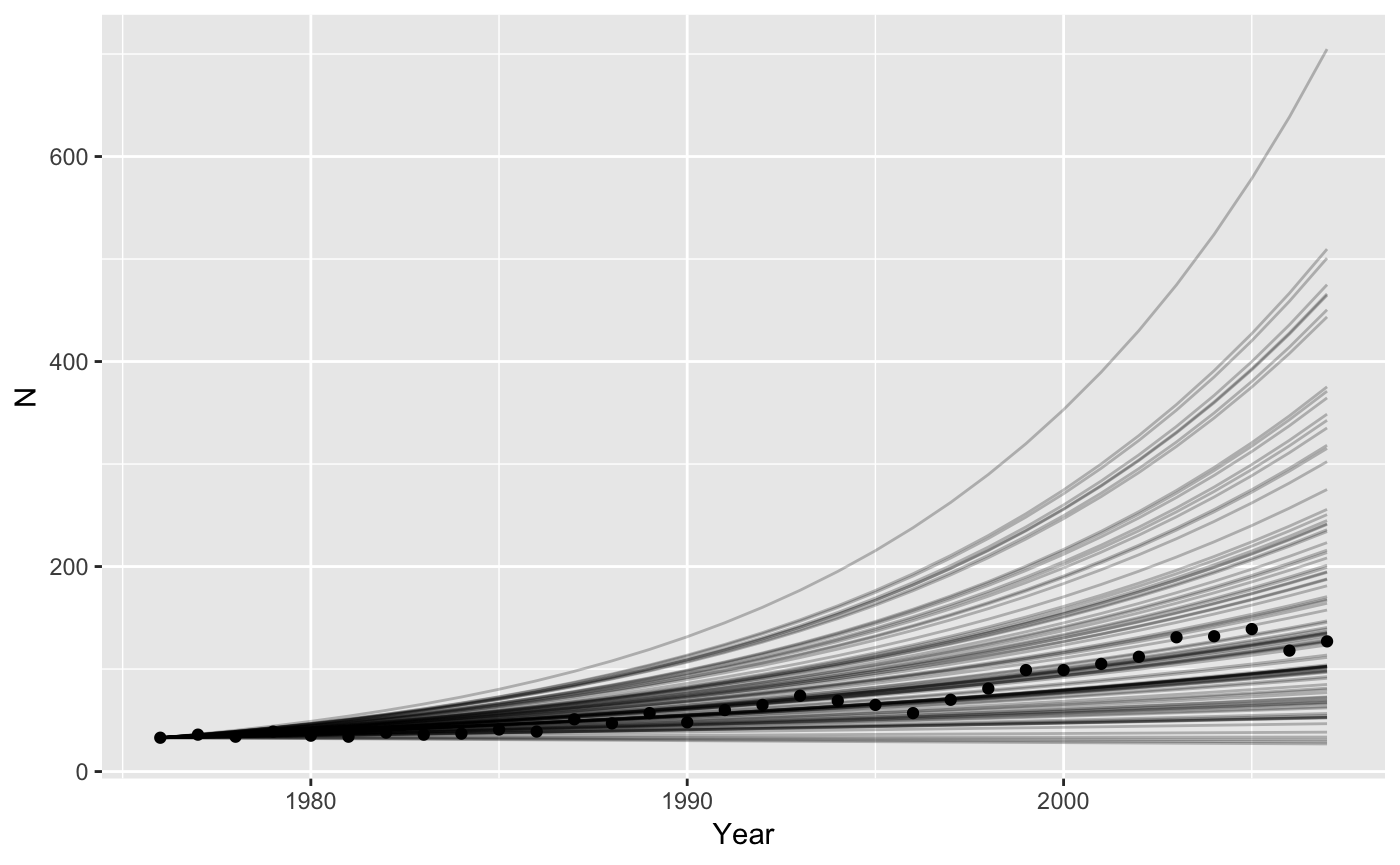
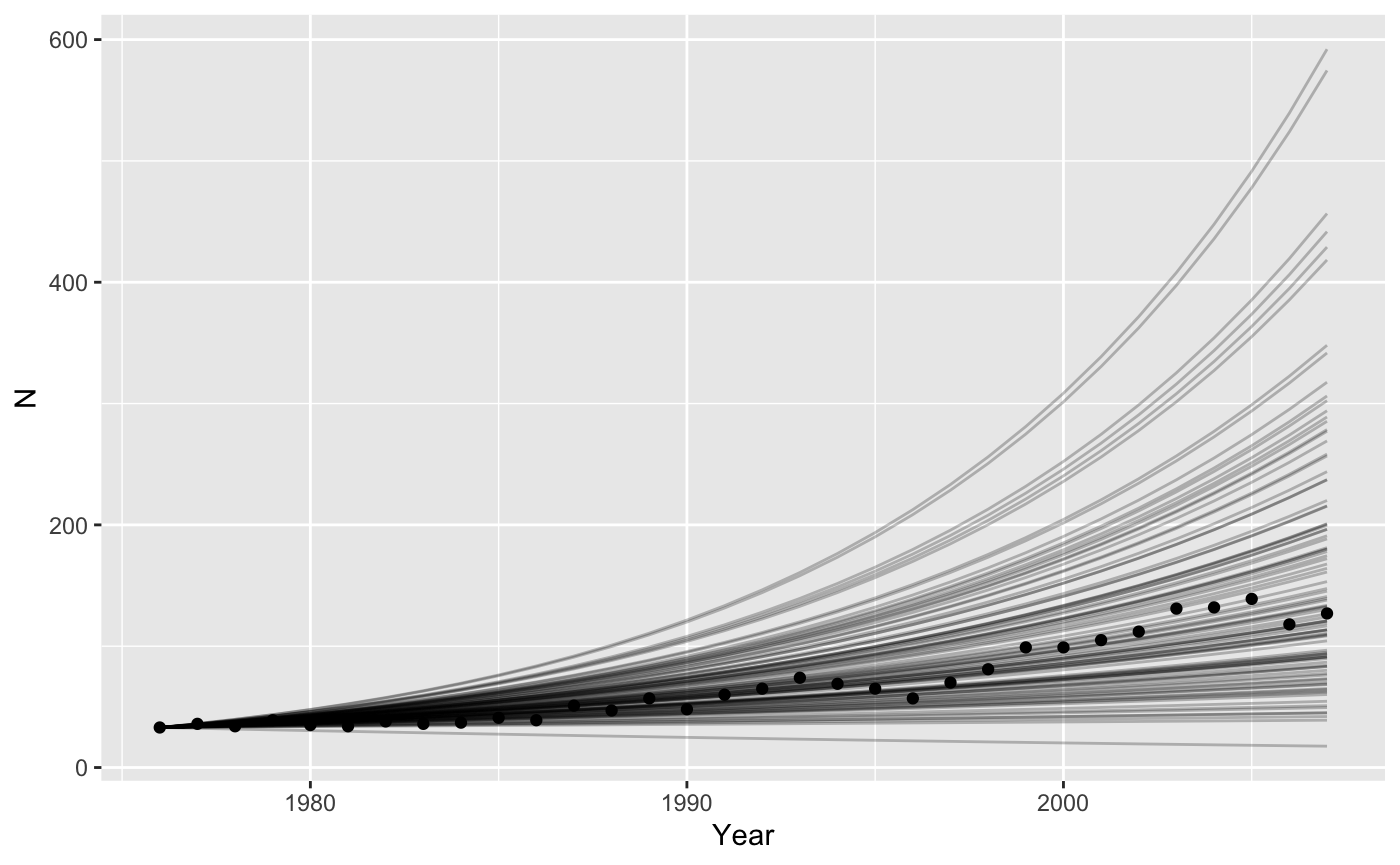
expand matrix example and update site

diff --git a/docs/articles/examples.html b/docs/articles/examples.html
@@ -100,12 +100,7 @@
 <a class="sourceLine" id="cb1-10" data-line-number="10"><span class="co">#&gt;     intersect, setdiff, setequal, union</span></a>
 <a class="sourceLine" id="cb1-11" data-line-number="11"><span class="kw"><a href="https://www.rdocumentation.org/packages/base/topics/library">library</a></span>(tidyr)</a>
 <a class="sourceLine" id="cb1-12" data-line-number="12"><span class="kw"><a href="https://www.rdocumentation.org/packages/base/topics/library">library</a></span>(ggplot2)</a>
-<a class="sourceLine" id="cb1-13" data-line-number="13"><span class="co">#&gt; Registered S3 methods overwritten by 'ggplot2':</span></a>
-<a class="sourceLine" id="cb1-14" data-line-number="14"><span class="co">#&gt;   method         from </span></a>
-<a class="sourceLine" id="cb1-15" data-line-number="15"><span class="co">#&gt;   [.quosures     rlang</span></a>
-<a class="sourceLine" id="cb1-16" data-line-number="16"><span class="co">#&gt;   c.quosures     rlang</span></a>
-<a class="sourceLine" id="cb1-17" data-line-number="17"><span class="co">#&gt;   print.quosures rlang</span></a>
-<a class="sourceLine" id="cb1-18" data-line-number="18"><span class="kw"><a href="https://www.rdocumentation.org/packages/base/topics/library">library</a></span>(purrr)</a></code></pre></div>
+<a class="sourceLine" id="cb1-13" data-line-number="13"><span class="kw"><a href="https://www.rdocumentation.org/packages/base/topics/library">library</a></span>(purrr)</a></code></pre></div>
 <div id="exponential-growth" class="section level1">
 <h1 class="hasAnchor">
 <a href="#exponential-growth" class="anchor"></a>Exponential growth</h1>
@@ -205,7 +200,7 @@ r_t = log\left(\frac{n_{t+1}}{n_t}\right)
 <a class="sourceLine" id="cb10-4" data-line-number="4"></a>
 <a class="sourceLine" id="cb10-5" data-line-number="5">bigresults2 &lt;-<span class="st"> </span><span class="kw"><a href="https://www.rdocumentation.org/packages/base/topics/split">split</a></span>(lotsofr, <span class="dt">f =</span> lotsofr<span class="op">$</span>rep) <span class="op">%&gt;%</span><span class="st"> </span></a>
 <a class="sourceLine" id="cb10-6" data-line-number="6"><span class="st">  </span><span class="kw"><a href="https://purrr.tidyverse.org/reference/map.html">map</a></span>(<span class="op">~</span><span class="kw"><a href="https://dplyr.tidyverse.org/reference/select.html">select</a></span>(., <span class="op">-</span>rep)) <span class="op">%&gt;%</span><span class="st"> </span><span class="co">#awkward, sorry</span></a>
-<a class="sourceLine" id="cb10-7" data-line-number="7"><span class="st">  </span><span class="kw"><a href="https://purrr.tidyverse.org/reference/map.html">map_dfr</a></span>(<span class="op">~</span><span class="kw"><a href="../reference/iterate.html">iterate</a></span>(<span class="dt">N0=</span><span class="kw"><a href="https://www.rdocumentation.org/packages/base/topics/c">c</a></span>(<span class="dt">N =</span> <span class="dv">33</span>), <span class="dt">parms =</span> ., <span class="dt">popfun =</span> exppop), <span class="dt">.id =</span> <span class="st">"rep"</span>)</a>
+<a class="sourceLine" id="cb10-7" data-line-number="7"><span class="st">  </span><span class="kw"><a href="https://purrr.tidyverse.org/reference/map.html">map_dfr</a></span>(<span class="op">~</span><span class="kw"><a href="../reference/iterate.html">iterate</a></span>(<span class="dt">parms =</span> ., <span class="dt">N0=</span><span class="kw"><a href="https://www.rdocumentation.org/packages/base/topics/c">c</a></span>(<span class="dt">N =</span> <span class="dv">33</span>), <span class="dt">popfun =</span> exppop), <span class="dt">.id =</span> <span class="st">"rep"</span>)</a>
 <a class="sourceLine" id="cb10-8" data-line-number="8"></a>
 <a class="sourceLine" id="cb10-9" data-line-number="9"><span class="co"># plot them all</span></a>
 <a class="sourceLine" id="cb10-10" data-line-number="10"><span class="kw"><a href="https://ggplot2.tidyverse.org/reference/ggplot.html">ggplot</a></span>(<span class="dt">data =</span> grizzly,</a>
@@ -244,7 +239,7 @@ N_{t+1} = &amp; N_{t}\lambda = N_{t}e^{r}
 <a class="sourceLine" id="cb12-7" data-line-number="7"><span class="co"># map_dfr() is like map but already glues results back into a data frame</span></a>
 <a class="sourceLine" id="cb12-8" data-line-number="8">bigresults2 &lt;-<span class="st"> </span><span class="kw"><a href="https://www.rdocumentation.org/packages/base/topics/split">split</a></span>(bigparms2, <span class="dt">f =</span> bigparms2<span class="op">$</span>rep) <span class="op">%&gt;%</span><span class="st"> </span></a>
 <a class="sourceLine" id="cb12-9" data-line-number="9"><span class="st">  </span><span class="kw"><a href="https://purrr.tidyverse.org/reference/map.html">map</a></span>(<span class="op">~</span><span class="kw"><a href="https://dplyr.tidyverse.org/reference/select.html">select</a></span>(., <span class="op">-</span>rep)) <span class="op">%&gt;%</span><span class="st"> </span></a>
-<a class="sourceLine" id="cb12-10" data-line-number="10"><span class="st">  </span><span class="kw"><a href="https://purrr.tidyverse.org/reference/map.html">map_dfr</a></span>(<span class="op">~</span><span class="kw"><a href="../reference/iterate.html">iterate</a></span>(<span class="dt">N0=</span><span class="kw"><a href="https://www.rdocumentation.org/packages/base/topics/c">c</a></span>(<span class="dt">N =</span> <span class="dv">33</span>), <span class="dt">parms =</span> ., <span class="dt">popfun =</span> stch_exppop), <span class="dt">.id =</span> <span class="st">"rep"</span>)</a>
+<a class="sourceLine" id="cb12-10" data-line-number="10"><span class="st">  </span><span class="kw"><a href="https://purrr.tidyverse.org/reference/map.html">map_dfr</a></span>(<span class="op">~</span><span class="kw"><a href="../reference/iterate.html">iterate</a></span>(<span class="dt">parms =</span> ., <span class="dt">N0=</span><span class="kw"><a href="https://www.rdocumentation.org/packages/base/topics/c">c</a></span>(<span class="dt">N =</span> <span class="dv">33</span>), <span class="dt">popfun =</span> stch_exppop), <span class="dt">.id =</span> <span class="st">"rep"</span>)</a>
 <a class="sourceLine" id="cb12-11" data-line-number="11"></a>
 <a class="sourceLine" id="cb12-12" data-line-number="12"><span class="co"># plot them all</span></a>
 <a class="sourceLine" id="cb12-13" data-line-number="13"><span class="kw"><a href="https://ggplot2.tidyverse.org/reference/ggplot.html">ggplot</a></span>(<span class="dt">data =</span> grizzly,</a>
@@ -274,40 +269,68 @@ N_{t+1} = &amp; N_{t}\lambda = N_{t}e^{r}
 <div id="structured-population-models" class="section level2">
 <h2 class="hasAnchor">
 <a href="#structured-population-models" class="anchor"></a>Structured Population Models</h2>
-<p>The argument N0 can be specified as a vector, enabling us to use structured population models. I will use some matrices calculated from some data for helmeted honeyeaters. <img src="images/HH-sqwak-threat-spec-web620.jpg" alt="Helmeted Honeyeater threat display. Image by Trent Browning"></p>
+<p>The argument N0 can be specified as a vector, enabling us to use structured population models. The projection matrix <span class="math inline">\(A\)</span> needs to be stored in a list-column of the input parameters. So</p>
+<div class="sourceCode" id="cb15"><pre class="sourceCode r"><code class="sourceCode r"><a class="sourceLine" id="cb15-1" data-line-number="1"><span class="co"># create the projection matrix</span></a>
+<a class="sourceLine" id="cb15-2" data-line-number="2">A &lt;-<span class="st"> </span><span class="kw"><a href="https://www.rdocumentation.org/packages/base/topics/matrix">matrix</a></span>(<span class="kw"><a href="https://www.rdocumentation.org/packages/base/topics/c">c</a></span>(<span class="dv">0</span>, <span class="dv">0</span>, <span class="dv">1</span>,</a>
+<a class="sourceLine" id="cb15-3" data-line-number="3">              <span class="fl">0.75</span>, <span class="dv">0</span>, <span class="dv">0</span>,</a>
+<a class="sourceLine" id="cb15-4" data-line-number="4">              <span class="dv">0</span>, <span class="fl">0.9</span>, <span class="fl">0.9</span>), <span class="dt">nrow =</span> <span class="dv">3</span>, <span class="dt">byrow =</span> <span class="ot">TRUE</span>)</a>
+<a class="sourceLine" id="cb15-5" data-line-number="5"><span class="co"># store it in the tibble as a replicated list</span></a>
+<a class="sourceLine" id="cb15-6" data-line-number="6">inputs &lt;-<span class="st"> </span><span class="kw"><a href="https://dplyr.tidyverse.org/reference/reexports.html">tibble</a></span>(<span class="dt">t =</span> <span class="dv">1</span><span class="op">:</span><span class="dv">20</span>,</a>
+<a class="sourceLine" id="cb15-7" data-line-number="7">                 <span class="dt">A =</span> <span class="kw"><a href="https://www.rdocumentation.org/packages/base/topics/rep">rep</a></span>(<span class="kw"><a href="https://www.rdocumentation.org/packages/base/topics/list">list</a></span>(A), <span class="dv">20</span>))</a>
+<a class="sourceLine" id="cb15-8" data-line-number="8"></a>
+<a class="sourceLine" id="cb15-9" data-line-number="9"><span class="co"># create the one line function</span></a>
+<a class="sourceLine" id="cb15-10" data-line-number="10">project_matrix &lt;-<span class="st"> </span><span class="cf">function</span>(N0, A){</a>
+<a class="sourceLine" id="cb15-11" data-line-number="11">  <span class="co"># need to add [[1]] to "unlist" A</span></a>
+<a class="sourceLine" id="cb15-12" data-line-number="12">  A[[<span class="dv">1</span>]] <span class="op">%*%</span><span class="st"> </span>N0  <span class="co"># matrix multiply and return result</span></a>
+<a class="sourceLine" id="cb15-13" data-line-number="13">}</a>
+<a class="sourceLine" id="cb15-14" data-line-number="14"><span class="kw"><a href="https://www.rdocumentation.org/packages/utils/topics/head">head</a></span>(<span class="kw"><a href="../reference/iterate.html">iterate</a></span>(inputs, <span class="dt">N0 =</span> <span class="kw"><a href="https://www.rdocumentation.org/packages/base/topics/c">c</a></span>(<span class="dv">1</span>,<span class="dv">1</span>,<span class="dv">1</span>), project_matrix))</a>
+<a class="sourceLine" id="cb15-15" data-line-number="15"><span class="co">#&gt; # A tibble: 6 x 5</span></a>
+<a class="sourceLine" id="cb15-16" data-line-number="16"><span class="co">#&gt;       t A                    N1    N2    N3</span></a>
+<a class="sourceLine" id="cb15-17" data-line-number="17"><span class="co">#&gt;   &lt;int&gt; &lt;list&gt;            &lt;dbl&gt; &lt;dbl&gt; &lt;dbl&gt;</span></a>
+<a class="sourceLine" id="cb15-18" data-line-number="18"><span class="co">#&gt; 1     1 &lt;dbl[,3] [3 × 3]&gt;  1     1     1   </span></a>
+<a class="sourceLine" id="cb15-19" data-line-number="19"><span class="co">#&gt; 2     2 &lt;dbl[,3] [3 × 3]&gt;  1     0.75  1.8 </span></a>
+<a class="sourceLine" id="cb15-20" data-line-number="20"><span class="co">#&gt; 3     3 &lt;dbl[,3] [3 × 3]&gt;  1.8   0.75  2.30</span></a>
+<a class="sourceLine" id="cb15-21" data-line-number="21"><span class="co">#&gt; 4     4 &lt;dbl[,3] [3 × 3]&gt;  2.30  1.35  2.74</span></a>
+<a class="sourceLine" id="cb15-22" data-line-number="22"><span class="co">#&gt; 5     5 &lt;dbl[,3] [3 × 3]&gt;  2.74  1.72  3.68</span></a>
+<a class="sourceLine" id="cb15-23" data-line-number="23"><span class="co">#&gt; 6     6 &lt;dbl[,3] [3 × 3]&gt;  3.68  2.06  4.86</span></a></code></pre></div>
+<div id="stochastic-projection-matrices" class="section level3">
+<h3 class="hasAnchor">
+<a href="#stochastic-projection-matrices" class="anchor"></a>Stochastic projection matrices</h3>
+<p>I will use some matrices calculated from some data for helmeted honeyeaters. <img src="images/HH-sqwak-threat-spec-web620.jpg" alt="Helmeted Honeyeater threat display. Image by Trent Browning"></p>
 <p>This bird is critically endangered, restricted to 3 small populations just east of Melbourne. Zoos Victoria contributes to conservation by captive rearing individuals to supplement wild populations, as well as maintaining a captive population “lifeboat” for the species. The matrices are stored in a list <code>hh_A</code>, and the associated population vectors are in <code>hh_N</code>.</p>
-<div class="sourceCode" id="cb15"><pre class="sourceCode r"><code class="sourceCode r"><a class="sourceLine" id="cb15-1" data-line-number="1">big_list_matrices &lt;-<span class="st"> </span><span class="kw"><a href="https://dplyr.tidyverse.org/reference/reexports.html">tibble</a></span>(<span class="dt">t =</span> <span class="dv">1</span><span class="op">:</span><span class="dv">20</span>,</a>
-<a class="sourceLine" id="cb15-2" data-line-number="2">                            <span class="dt">A =</span> <span class="kw"><a href="https://dplyr.tidyverse.org/reference/sample.html">sample</a></span>(hh_A, <span class="dv">20</span>, <span class="dt">replace=</span><span class="ot">TRUE</span>)) <span class="co"># pick a matrix randomly 20 times</span></a>
-<a class="sourceLine" id="cb15-3" data-line-number="3"><span class="co"># make the projections using matrix multiplication</span></a>
-<a class="sourceLine" id="cb15-4" data-line-number="4">stoch_proj &lt;-<span class="st"> </span><span class="cf">function</span>(N0, A, t){</a>
-<a class="sourceLine" id="cb15-5" data-line-number="5">  N1 &lt;-<span class="st"> </span>A[[<span class="dv">1</span>]] <span class="op">%*%</span><span class="st"> </span>N0 <span class="co"># the [[1]] extracts the matrix from the list</span></a>
-<a class="sourceLine" id="cb15-6" data-line-number="6">  <span class="kw"><a href="https://www.rdocumentation.org/packages/base/topics/function">return</a></span>(N1)</a>
-<a class="sourceLine" id="cb15-7" data-line-number="7">}</a>
-<a class="sourceLine" id="cb15-8" data-line-number="8">onerep &lt;-<span class="st"> </span><span class="kw"><a href="../reference/iterate.html">iterate</a></span>(<span class="dt">parms =</span> big_list_matrices, <span class="dt">N0 =</span> hh_N<span class="op">$</span>N1991, <span class="dt">popfun =</span> stoch_proj)</a>
-<a class="sourceLine" id="cb15-9" data-line-number="9">stoch_summary &lt;-<span class="st"> </span>onerep <span class="op">%&gt;%</span></a>
-<a class="sourceLine" id="cb15-10" data-line-number="10"><span class="st">  </span><span class="kw"><a href="https://tidyr.tidyverse.org/reference/gather.html">gather</a></span>(<span class="dt">key =</span> <span class="st">"ageclass"</span>, <span class="dt">value =</span> <span class="st">"N"</span>, <span class="dv">3</span><span class="op">:</span><span class="dv">12</span>) <span class="op">%&gt;%</span><span class="st"> </span><span class="co"># stack up the population sizes in each year</span></a>
-<a class="sourceLine" id="cb15-11" data-line-number="11"><span class="st">  </span><span class="kw"><a href="https://dplyr.tidyverse.org/reference/group_by.html">group_by</a></span>(t) <span class="op">%&gt;%</span></a>
-<a class="sourceLine" id="cb15-12" data-line-number="12"><span class="st">  </span><span class="kw"><a href="https://dplyr.tidyverse.org/reference/summarise.html">summarize</a></span>(<span class="dt">N=</span><span class="kw"><a href="https://www.rdocumentation.org/packages/base/topics/sum">sum</a></span>(N)) <span class="co"># reduce to one row per year</span></a>
-<a class="sourceLine" id="cb15-13" data-line-number="13"><span class="kw"><a href="https://ggplot2.tidyverse.org/reference/ggplot.html">ggplot</a></span>(stoch_summary, <span class="kw"><a href="https://ggplot2.tidyverse.org/reference/aes.html">aes</a></span>(<span class="dt">x=</span>t, <span class="dt">y=</span>N)) <span class="op">+</span><span class="st"> </span><span class="kw"><a href="https://ggplot2.tidyverse.org/reference/geom_path.html">geom_line</a></span>()</a></code></pre></div>
-<p><img src="examples_files/figure-html/unnamed-chunk-11-1.png" width="700"></p>
-<p>This works because we’ve stored the matrices in a list-column of the dataframe parms. We can do replicates as well.</p>
-<div class="sourceCode" id="cb16"><pre class="sourceCode r"><code class="sourceCode r"><a class="sourceLine" id="cb16-1" data-line-number="1">big_list_matrices &lt;-<span class="st"> </span><span class="kw"><a href="https://dplyr.tidyverse.org/reference/reexports.html">tibble</a></span>(<span class="dt">t =</span> <span class="kw"><a href="https://www.rdocumentation.org/packages/base/topics/rep">rep</a></span>(<span class="dv">1</span><span class="op">:</span><span class="dv">20</span>, <span class="dt">time =</span> <span class="dv">10</span>),</a>
-<a class="sourceLine" id="cb16-2" data-line-number="2">                            <span class="dt">rep =</span> <span class="kw"><a href="https://www.rdocumentation.org/packages/base/topics/rep">rep</a></span>(<span class="dv">1</span><span class="op">:</span><span class="dv">10</span>, <span class="dt">each =</span> <span class="dv">20</span>),</a>
-<a class="sourceLine" id="cb16-3" data-line-number="3">                            <span class="co"># pick a matrix randomly 20 times</span></a>
-<a class="sourceLine" id="cb16-4" data-line-number="4">                            <span class="dt">A =</span> <span class="kw"><a href="https://dplyr.tidyverse.org/reference/sample.html">sample</a></span>(hh_A, <span class="dv">200</span>, <span class="dt">replace=</span><span class="ot">TRUE</span>)) <span class="op">%&gt;%</span><span class="st">  </span></a>
-<a class="sourceLine" id="cb16-5" data-line-number="5"><span class="st">  </span><span class="kw"><a href="https://tidyr.tidyverse.org/reference/nest.html">nest</a></span>(<span class="op">-</span>rep) <span class="co"># create a list of dataframes, one per rep defaults to name data</span></a>
-<a class="sourceLine" id="cb16-6" data-line-number="6">  </a>
-<a class="sourceLine" id="cb16-7" data-line-number="7">manyreps &lt;-<span class="st"> </span>big_list_matrices <span class="op">%&gt;%</span><span class="st"> </span></a>
-<a class="sourceLine" id="cb16-8" data-line-number="8"><span class="st">  </span><span class="co"># we've used map() and friends before, runs our model with each element of a list</span></a>
-<a class="sourceLine" id="cb16-9" data-line-number="9"><span class="st">  </span><span class="kw"><a href="https://dplyr.tidyverse.org/reference/mutate.html">mutate</a></span>(<span class="dt">data =</span> <span class="kw"><a href="https://purrr.tidyverse.org/reference/map.html">map</a></span>(data, <span class="cf">function</span>(X) <span class="kw"><a href="../reference/iterate.html">iterate</a></span>(<span class="dt">N0 =</span> hh_N<span class="op">$</span>N1991, <span class="dt">parms =</span> X, <span class="dt">popfun =</span> stoch_proj))) <span class="op">%&gt;%</span><span class="st"> </span></a>
-<a class="sourceLine" id="cb16-10" data-line-number="10"><span class="st">  </span><span class="kw"><a href="https://tidyr.tidyverse.org/reference/unnest.html">unnest</a></span>() <span class="co"># pop everything back out of the list of dataframes</span></a>
-<a class="sourceLine" id="cb16-11" data-line-number="11"></a>
-<a class="sourceLine" id="cb16-12" data-line-number="12">stoch_summary &lt;-<span class="st"> </span>manyreps <span class="op">%&gt;%</span></a>
-<a class="sourceLine" id="cb16-13" data-line-number="13"><span class="st">  </span><span class="kw"><a href="https://tidyr.tidyverse.org/reference/gather.html">gather</a></span>(<span class="dt">key =</span> <span class="st">"ageclass"</span>, <span class="dt">value =</span> <span class="st">"N"</span>, <span class="dv">4</span><span class="op">:</span><span class="dv">13</span>) <span class="op">%&gt;%</span><span class="st"> </span><span class="co"># stack up the population sizes in each year</span></a>
-<a class="sourceLine" id="cb16-14" data-line-number="14"><span class="st">  </span><span class="kw"><a href="https://dplyr.tidyverse.org/reference/group_by.html">group_by</a></span>(t, rep) <span class="op">%&gt;%</span></a>
-<a class="sourceLine" id="cb16-15" data-line-number="15"><span class="st">  </span><span class="kw"><a href="https://dplyr.tidyverse.org/reference/summarise.html">summarize</a></span>(<span class="dt">N=</span><span class="kw"><a href="https://www.rdocumentation.org/packages/base/topics/sum">sum</a></span>(N)) <span class="co"># reduce to one row per year</span></a>
-<a class="sourceLine" id="cb16-16" data-line-number="16"><span class="kw"><a href="https://ggplot2.tidyverse.org/reference/ggplot.html">ggplot</a></span>(stoch_summary, <span class="kw"><a href="https://ggplot2.tidyverse.org/reference/aes.html">aes</a></span>(<span class="dt">x=</span>t, <span class="dt">y=</span>N, <span class="dt">group=</span>rep)) <span class="op">+</span><span class="st"> </span><span class="kw"><a href="https://ggplot2.tidyverse.org/reference/geom_path.html">geom_line</a></span>()</a></code></pre></div>
+<div class="sourceCode" id="cb16"><pre class="sourceCode r"><code class="sourceCode r"><a class="sourceLine" id="cb16-1" data-line-number="1">big_list_matrices &lt;-<span class="st"> </span><span class="kw"><a href="https://dplyr.tidyverse.org/reference/reexports.html">tibble</a></span>(<span class="dt">t =</span> <span class="dv">1</span><span class="op">:</span><span class="dv">20</span>,</a>
+<a class="sourceLine" id="cb16-2" data-line-number="2">                            <span class="dt">A =</span> <span class="kw"><a href="https://dplyr.tidyverse.org/reference/sample.html">sample</a></span>(hh_A, <span class="dv">20</span>, <span class="dt">replace=</span><span class="ot">TRUE</span>)) <span class="co"># pick a matrix randomly 20 times</span></a>
+<a class="sourceLine" id="cb16-3" data-line-number="3"><span class="co"># make the projections using matrix multiplication</span></a>
+<a class="sourceLine" id="cb16-4" data-line-number="4">stoch_proj &lt;-<span class="st"> </span><span class="cf">function</span>(N0, A, t){</a>
+<a class="sourceLine" id="cb16-5" data-line-number="5">  N1 &lt;-<span class="st"> </span>A[[<span class="dv">1</span>]] <span class="op">%*%</span><span class="st"> </span>N0 <span class="co"># the [[1]] extracts the matrix from the list</span></a>
+<a class="sourceLine" id="cb16-6" data-line-number="6">  <span class="kw"><a href="https://www.rdocumentation.org/packages/base/topics/function">return</a></span>(N1)</a>
+<a class="sourceLine" id="cb16-7" data-line-number="7">}</a>
+<a class="sourceLine" id="cb16-8" data-line-number="8">onerep &lt;-<span class="st"> </span><span class="kw"><a href="../reference/iterate.html">iterate</a></span>(<span class="dt">parms =</span> big_list_matrices, <span class="dt">N0 =</span> hh_N<span class="op">$</span>N1991, <span class="dt">popfun =</span> stoch_proj)</a>
+<a class="sourceLine" id="cb16-9" data-line-number="9">stoch_summary &lt;-<span class="st"> </span>onerep <span class="op">%&gt;%</span></a>
+<a class="sourceLine" id="cb16-10" data-line-number="10"><span class="st">  </span><span class="kw"><a href="https://tidyr.tidyverse.org/reference/gather.html">gather</a></span>(<span class="dt">key =</span> <span class="st">"ageclass"</span>, <span class="dt">value =</span> <span class="st">"N"</span>, <span class="dv">3</span><span class="op">:</span><span class="dv">12</span>) <span class="op">%&gt;%</span><span class="st"> </span><span class="co"># stack up the population sizes in each year</span></a>
+<a class="sourceLine" id="cb16-11" data-line-number="11"><span class="st">  </span><span class="kw"><a href="https://dplyr.tidyverse.org/reference/group_by.html">group_by</a></span>(t) <span class="op">%&gt;%</span></a>
+<a class="sourceLine" id="cb16-12" data-line-number="12"><span class="st">  </span><span class="kw"><a href="https://dplyr.tidyverse.org/reference/summarise.html">summarize</a></span>(<span class="dt">N=</span><span class="kw"><a href="https://www.rdocumentation.org/packages/base/topics/sum">sum</a></span>(N)) <span class="co"># reduce to one row per year</span></a>
+<a class="sourceLine" id="cb16-13" data-line-number="13"><span class="kw"><a href="https://ggplot2.tidyverse.org/reference/ggplot.html">ggplot</a></span>(stoch_summary, <span class="kw"><a href="https://ggplot2.tidyverse.org/reference/aes.html">aes</a></span>(<span class="dt">x=</span>t, <span class="dt">y=</span>N)) <span class="op">+</span><span class="st"> </span><span class="kw"><a href="https://ggplot2.tidyverse.org/reference/geom_path.html">geom_line</a></span>()</a></code></pre></div>
 <p><img src="examples_files/figure-html/unnamed-chunk-12-1.png" width="700"></p>
+<p>This works because we’ve stored the matrices in a list-column of the dataframe parms. We can do replicates as well.</p>
+<div class="sourceCode" id="cb17"><pre class="sourceCode r"><code class="sourceCode r"><a class="sourceLine" id="cb17-1" data-line-number="1">big_list_matrices &lt;-<span class="st"> </span><span class="kw"><a href="https://dplyr.tidyverse.org/reference/reexports.html">tibble</a></span>(<span class="dt">t =</span> <span class="kw"><a href="https://www.rdocumentation.org/packages/base/topics/rep">rep</a></span>(<span class="dv">1</span><span class="op">:</span><span class="dv">20</span>, <span class="dt">time =</span> <span class="dv">10</span>),</a>
+<a class="sourceLine" id="cb17-2" data-line-number="2">                            <span class="dt">rep =</span> <span class="kw"><a href="https://www.rdocumentation.org/packages/base/topics/rep">rep</a></span>(<span class="dv">1</span><span class="op">:</span><span class="dv">10</span>, <span class="dt">each =</span> <span class="dv">20</span>),</a>
+<a class="sourceLine" id="cb17-3" data-line-number="3">                            <span class="co"># pick a matrix randomly 20 times</span></a>
+<a class="sourceLine" id="cb17-4" data-line-number="4">                            <span class="dt">A =</span> <span class="kw"><a href="https://dplyr.tidyverse.org/reference/sample.html">sample</a></span>(hh_A, <span class="dv">200</span>, <span class="dt">replace=</span><span class="ot">TRUE</span>)) <span class="op">%&gt;%</span><span class="st">  </span></a>
+<a class="sourceLine" id="cb17-5" data-line-number="5"><span class="st">  </span><span class="kw"><a href="https://tidyr.tidyverse.org/reference/nest.html">nest</a></span>(<span class="op">-</span>rep) <span class="co"># create a list of dataframes, one per rep defaults to name data</span></a>
+<a class="sourceLine" id="cb17-6" data-line-number="6">  </a>
+<a class="sourceLine" id="cb17-7" data-line-number="7">manyreps &lt;-<span class="st"> </span>big_list_matrices <span class="op">%&gt;%</span><span class="st"> </span></a>
+<a class="sourceLine" id="cb17-8" data-line-number="8"><span class="st">  </span><span class="co"># we've used map() and friends before, runs our model with each element of a list</span></a>
+<a class="sourceLine" id="cb17-9" data-line-number="9"><span class="st">  </span><span class="kw"><a href="https://dplyr.tidyverse.org/reference/mutate.html">mutate</a></span>(<span class="dt">data =</span> <span class="kw"><a href="https://purrr.tidyverse.org/reference/map.html">map</a></span>(data, <span class="cf">function</span>(X) <span class="kw"><a href="../reference/iterate.html">iterate</a></span>(<span class="dt">parms =</span> X, <span class="dt">N0 =</span> hh_N<span class="op">$</span>N1991, <span class="dt">popfun =</span> stoch_proj))) <span class="op">%&gt;%</span><span class="st"> </span></a>
+<a class="sourceLine" id="cb17-10" data-line-number="10"><span class="st">  </span><span class="kw"><a href="https://tidyr.tidyverse.org/reference/unnest.html">unnest</a></span>() <span class="co"># pop everything back out of the list of dataframes</span></a>
+<a class="sourceLine" id="cb17-11" data-line-number="11"></a>
+<a class="sourceLine" id="cb17-12" data-line-number="12">stoch_summary &lt;-<span class="st"> </span>manyreps <span class="op">%&gt;%</span></a>
+<a class="sourceLine" id="cb17-13" data-line-number="13"><span class="st">  </span><span class="kw"><a href="https://tidyr.tidyverse.org/reference/gather.html">gather</a></span>(<span class="dt">key =</span> <span class="st">"ageclass"</span>, <span class="dt">value =</span> <span class="st">"N"</span>, <span class="dv">4</span><span class="op">:</span><span class="dv">13</span>) <span class="op">%&gt;%</span><span class="st"> </span><span class="co"># stack up the population sizes in each year</span></a>
+<a class="sourceLine" id="cb17-14" data-line-number="14"><span class="st">  </span><span class="kw"><a href="https://dplyr.tidyverse.org/reference/group_by.html">group_by</a></span>(t, rep) <span class="op">%&gt;%</span></a>
+<a class="sourceLine" id="cb17-15" data-line-number="15"><span class="st">  </span><span class="kw"><a href="https://dplyr.tidyverse.org/reference/summarise.html">summarize</a></span>(<span class="dt">N=</span><span class="kw"><a href="https://www.rdocumentation.org/packages/base/topics/sum">sum</a></span>(N)) <span class="co"># reduce to one row per year</span></a>
+<a class="sourceLine" id="cb17-16" data-line-number="16"><span class="kw"><a href="https://ggplot2.tidyverse.org/reference/ggplot.html">ggplot</a></span>(stoch_summary, <span class="kw"><a href="https://ggplot2.tidyverse.org/reference/aes.html">aes</a></span>(<span class="dt">x=</span>t, <span class="dt">y=</span>N, <span class="dt">group=</span>rep)) <span class="op">+</span><span class="st"> </span><span class="kw"><a href="https://ggplot2.tidyverse.org/reference/geom_path.html">geom_line</a></span>()</a></code></pre></div>
+<p><img src="examples_files/figure-html/unnamed-chunk-13-1.png" width="700"></p>
+</div>
 </div>
 </div>
 <div class="footnotes">

diff --git a/docs/reference/iterate.html b/docs/reference/iterate.html
@@ -124,7 +124,19 @@ Parameters of the model can vary with time.</p>
     
     </div>
 
-    <pre class="usage"><span class='fu'>iterate</span>(<span class='kw'>parms</span> <span class='kw'>=</span> <span class='kw'>NULL</span>, <span class='kw'>N0</span> <span class='kw'>=</span> <span class='kw'>NULL</span>, <span class='kw'>popfun</span> <span class='kw'>=</span> <span class='kw'>NULL</span>)</pre>
+    <pre class="usage"><span class='fu'>iterate</span>(<span class='no'>...</span>)
+
+<span class='co'># S3 method for tbl_df</span>
+<span class='fu'>iterate</span>(<span class='kw'>parms</span> <span class='kw'>=</span> <span class='kw'>NULL</span>, <span class='kw'>N0</span> <span class='kw'>=</span> <span class='kw'>NULL</span>, <span class='kw'>popfun</span> <span class='kw'>=</span> <span class='kw'>NULL</span>)
+
+<span class='co'># S3 method for data.frame</span>
+<span class='fu'>iterate</span>(<span class='kw'>parms</span> <span class='kw'>=</span> <span class='kw'>NULL</span>, <span class='kw'>N0</span> <span class='kw'>=</span> <span class='kw'>NULL</span>, <span class='kw'>popfun</span> <span class='kw'>=</span> <span class='kw'>NULL</span>)
+
+<span class='co'># S3 method for NULL</span>
+<span class='fu'>iterate</span>(<span class='no'>...</span>)
+
+<span class='co'># S3 method for default</span>
+<span class='fu'>iterate</span>(<span class='no'>...</span>)</pre>
     
     <h2 class="hasAnchor" id="arguments"><a class="anchor" href="#arguments"></a>Arguments</h2>
     <table class="ref-arguments">
@@ -160,7 +172,7 @@ zero rows, the result also has zero rows.</p>
 
     <h2 class="hasAnchor" id="examples"><a class="anchor" href="#examples"></a>Examples</h2>
     <pre class="examples"><div class='input'><span class='co'># a simple exponential growth model</span>
-<span class='no'>anexppop</span> <span class='kw'>&lt;-</span> <span class='kw'>function</span>(<span class='no'>N0</span>, <span class='no'>b</span>, <span class='no'>d</span>){
+<span class='no'>anexppop</span> <span class='kw'>&lt;-</span> <span class='kw'>function</span>(<span class='no'>N0</span>, <span class='no'>b</span>, <span class='no'>d</span>) {
   <span class='no'>N1</span> <span class='kw'>&lt;-</span> <span class='no'>N0</span> * (<span class='fl'>1</span> + <span class='no'>b</span> - <span class='no'>d</span>)
   <span class='fu'><a href='https://www.rdocumentation.org/packages/base/topics/function'>return</a></span>(<span class='no'>N1</span>)
 }

diff --git a/docs/index.html b/docs/index.html
@@ -173,7 +173,7 @@
 <ul class="list-unstyled">
 <li><a href="https://www.repostatus.org/#active"><img src="https://www.repostatus.org/badges/latest/active.svg" alt="Project Status: Active – The project has reached a stable, usable state and is being actively developed."></a></li>
 <li><a href="https://cran.r-project.org/package=tidypop"><img src="https://www.r-pkg.org/badges/version/tidypop" alt="CRAN status"></a></li>
-<li><a href="https://travis-ci.org/atyre2/tidypop"><img src="https://travis-ci.org/atyre2/tidypop.svg?branch=master" alt="Travis build status"></a></li>
+<li><a href="https://travis-ci.com/atyre2/tidypop"><img src="https://travis-ci.com/atyre2/tidypop.svg?branch=master" alt="Travis build status"></a></li>
 <li><a href="https://ci.appveyor.com/project/atyre2/tidypop"><img src="https://ci.appveyor.com/api/projects/status/github/atyre2/tidypop?branch=master&amp;svg=true" alt="AppVeyor build status"></a></li>
 <li><a href="https://codecov.io/gh/atyre2/tidypop?branch=master"><img src="https://codecov.io/gh/atyre2/tidypop/branch/master/graph/badge.svg" alt="Codecov test coverage"></a></li>
 </ul>

diff --git a/docs/reference/tidypop-package.html b/docs/reference/tidypop-package.html
@@ -32,7 +32,9 @@
 
 <meta property="og:title" content="tidypop: Tidy Interface to Single Species Population Models — tidypop-package" />
 
-<meta property="og:description" content="Facilitate teaching simple single species population models in a tidy context, and provide a 'tidy' interface based on data frames to existing population packages." />
+<meta property="og:description" content="Facilitate teaching simple single species
+    population models in a tidy context, and provide a 'tidy' interface
+    based on data frames to existing population packages." />
 <meta name="twitter:card" content="summary" />
 
 
@@ -118,7 +120,9 @@
 
     <div class="ref-description">
     
-    <p>Facilitate teaching simple single species population models in a tidy context, and provide a 'tidy' interface based on data frames to existing population packages.</p>
+    <p>Facilitate teaching simple single species
+    population models in a tidy context, and provide a 'tidy' interface
+    based on data frames to existing population packages.</p>
     
     </div>
 
